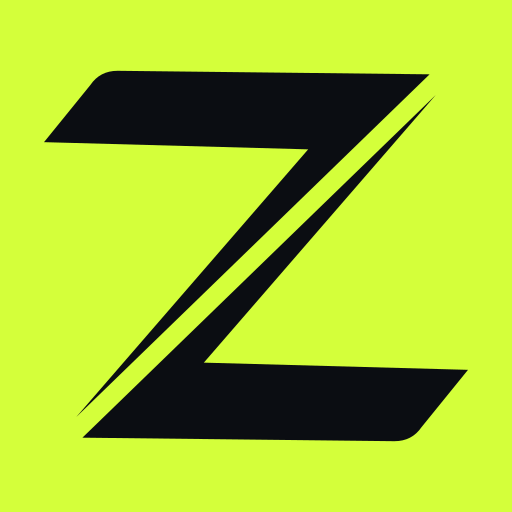
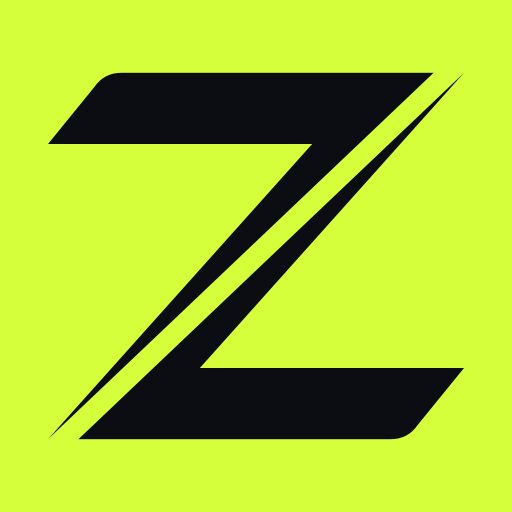
fix(branding): finalize approved Zor mark geometry
Flatten upper and lower rails to true horizontals, align diagonal tips
to the opposite rail outer bounds, and tighten paired components by
1.5 units. Update generator output, manifest, verifier contract, and
design spec to match the approved visual review.

diff --git a/docs/superpowers/specs/2026-08-08-zor-complete-rebrand-design.md b/docs/superpowers/specs/2026-08-08-zor-complete-rebrand-design.md
@@ -20,7 +20,7 @@ The repository remains at its existing Forgejo and GitHub path, `hiten/IronPulse
 
 ### Brand character and palette
 
-Zor is sharp, fast, premium, and training-focused. Its mark follows the approved JPEG reference: a compact 1.14:1 geometric `Z` made from two interlocking filled components separated by a narrow parallel negative-space slash. The second component is an exact 180-degree rotation of the first, including rail length, taper, sharp diagonal tip, and shallow outer-terminal curve; no intermediate vertices or kinks are permitted. The paired components sit 1 unit closer together than the raw threshold trace while preserving the outer silhouette. The canonical coordinates are traced from the clean standalone mark in that reference and must not be replaced by an invented three-rail construction. It must remain recognizable at launcher-icon and favicon sizes without depending on texture, shadows, gradients, or a font.
+Zor is sharp, fast, premium, and training-focused. Its mark follows the approved JPEG reference: a compact 1.14:1 geometric `Z` made from two interlocking filled components separated by a narrow parallel negative-space slash. The second component is an exact 180-degree rotation of the first, including rail length, taper, sharp diagonal tip, and shallow outer-terminal curve; no intermediate vertices or kinks are permitted. The paired components sit 1.5 units closer together than the raw threshold trace while preserving the outer silhouette. Both sharp diagonal tips extend to the same outer bounds as the opposite top and bottom rails. The canonical coordinates are traced from the clean standalone mark in that reference and must not be replaced by an invented three-rail construction. It must remain recognizable at launcher-icon and favicon sizes without depending on texture, shadows, gradients, or a font.
 
 Canonical product tokens are:
 
